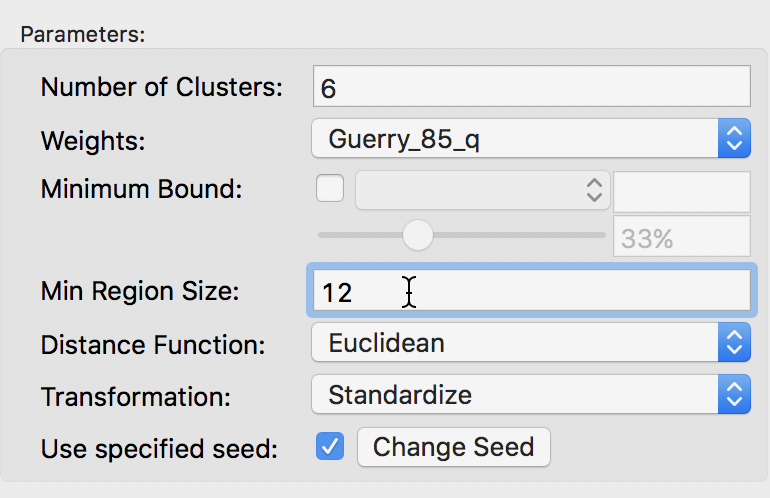
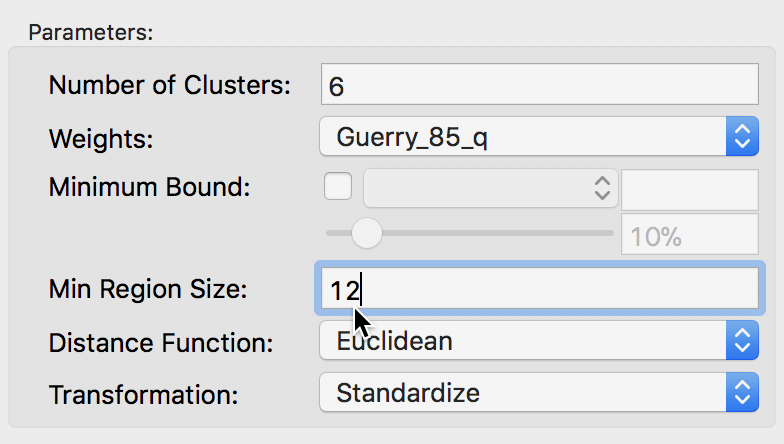
updated skater interface screen shots (no random seed)

diff --git a/workbook/8_spatial_clusters/lab8.html b/workbook/8_spatial_clusters/lab8.html
@@ -114,7 +114,7 @@ if (window.hljs && document.readyState && document.readyState === "complete") {
 <h1 class="title toc-ignore">Cluster Analysis (3)</h1>
 <h3 class="subtitle"><em>Spatially Constrained Clustering Methods</em></h3>
 <h4 class="author"><em>Luc Anselin<a href="#fn1" class="footnoteRef" id="fnref1"><sup>1</sup></a></em></h4>
-<h4 class="date"><em>11/15/2017 [in progress]</em></h4>
+<h4 class="date"><em>11/28/2017 [in progress, updated]</em></h4>
 
 
 <div id="TOC">
